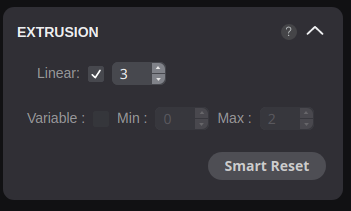
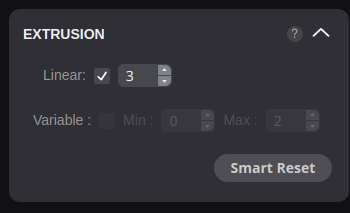
update image

diff --git a/src/NumberInput/ControlButtons.tsx b/src/NumberInput/ControlButtons.tsx
@@ -12,8 +12,8 @@ interface ButtonProps {
 function Button(props: ButtonProps) {
     const fill = props.disabled ? "#67666a" : "#e6e6e6";
     const rest = {
-        w: 14,
-        h: 10,
+        w: 15,
+        h: 15,
         fill
     };
     return <Flex className={cls("Control-button", {
